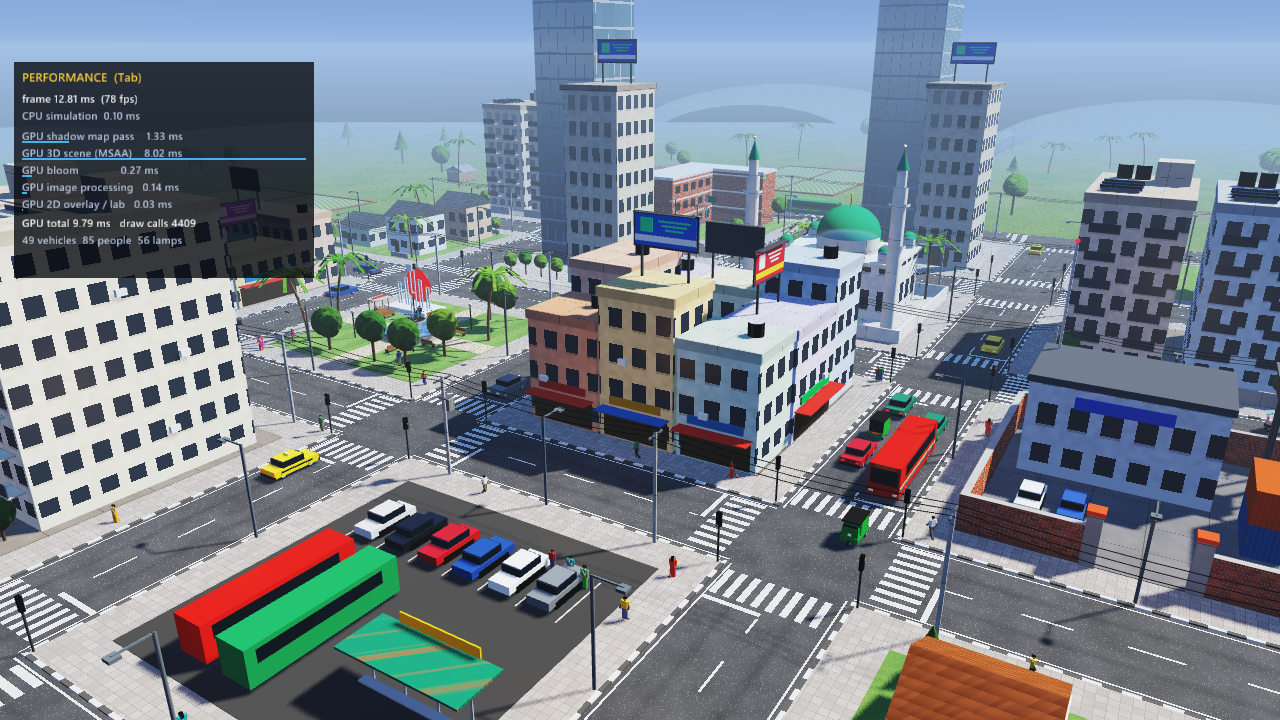
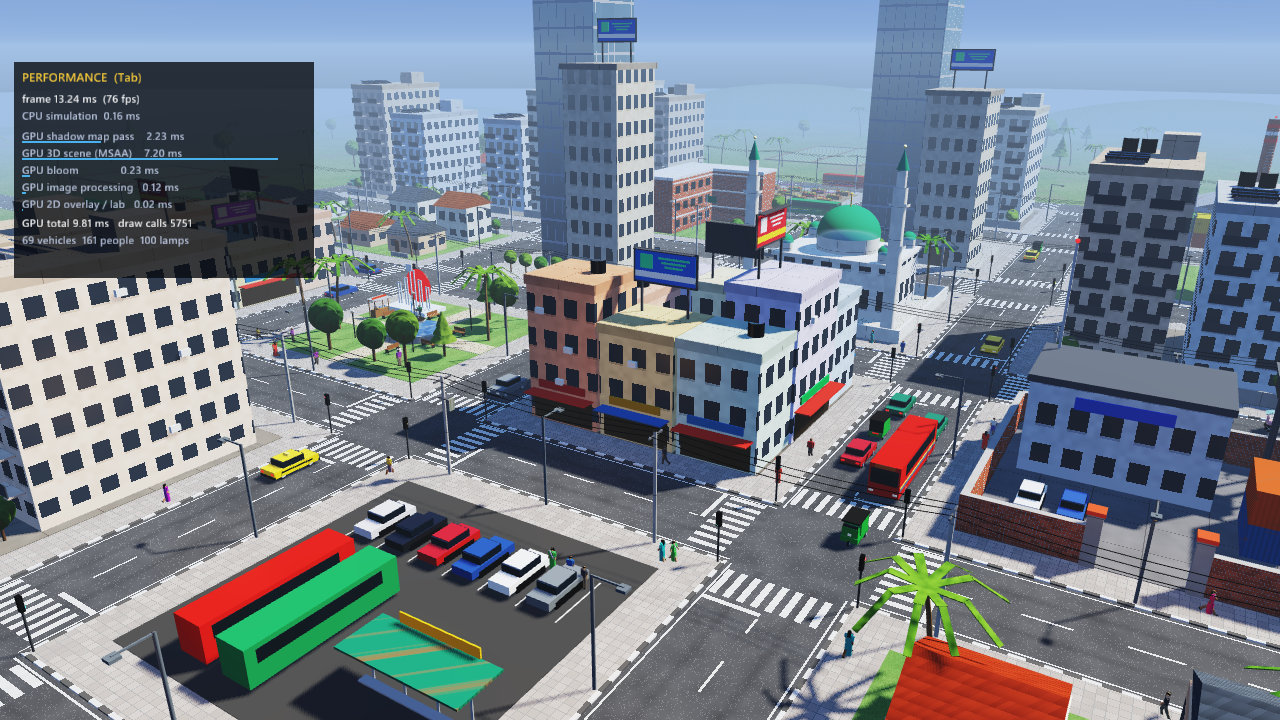
Docs and screenshots for version 5 (bigger town, build.bat fixes)

diff --git a/README.md b/README.md
@@ -58,9 +58,9 @@ the live CCTV feed.
 
 | | |
 |---|---|
-| **Procedural town** | 5 × 5 street grid, 16 themed city blocks, coconut palms, electricity poles with sagging cables, glowing rooftop billboards, tea stalls, rice paddies and a village pond. Road markings are painted in the fragment shader; there are no textures or models. |
-| **Traffic simulation** | 49 vehicles of 8 types on lane routes with **cubic Bézier** turns. Heading comes from `P'(t)`; vehicles obey signals, keep their distance, and stop for people. |
-| **Hierarchical people** | About 85 pedestrians with articulated skeletons and walk cycles. They wait at kerbs and cross on green. |
+| **Procedural town** | 7 × 7 street grid with 36 city blocks: towers, mosque, park, markets, open-air bazaars, a cricket ground with floodlights, a hospital with a helipad, factories, a school, a bus terminal and housing. Also coconut palms, electricity poles with sagging cables, glowing rooftop billboards, tea stalls, rice paddies and a village pond. Road markings are painted in the fragment shader; there are no textures or models. |
+| **Traffic simulation** | 69 vehicles of 8 types on lane routes with **cubic Bézier** turns. Heading comes from `P'(t)`; vehicles obey signals, keep their distance, and stop for people. |
+| **Hierarchical people** | About 160 pedestrians, including shoppers in the bazaars, with articulated skeletons and walk cycles. They wait at kerbs and cross on green. |
 | **Rendering** | HDR + ACES, camera-following shadow map with texel snapping, 4× MSAA, **bloom from an emissive glow mask**, **Fresnel sky reflections** on glass, water and paint, procedural sky, day/night cycle, Flat / Gouraud / Phong shading. The static town is batched by material into a few hundred draw calls. |
 | **CCTV restoration** | Bilateral, median, or kernel denoising, plus **motion-adaptive temporal noise reduction** and **real histogram equalization** driven by a GPU → CPU histogram every frame. |
 | **Motion detection** | Background subtraction, thresholding, morphological opening, and connected-component labelling give bounding boxes around moving objects. The intermediate images are shown live. |
@@ -82,6 +82,8 @@ the difference $|I-B|$, and the cleaned mask.
 | ![Street](docs/screenshots/street_level.png) | ![Bloom](docs/screenshots/night_bloom.png) |
 | **Village pond, palms and boats** | **Town park and junctions** |
 | ![Pond](docs/screenshots/village_pond.png) | ![Park](docs/screenshots/town_park.png) |
+| **Cricket ground under floodlights** | **Open-air bazaar** |
+| ![Cricket](docs/screenshots/cricket_night.png) | ![Bazaar](docs/screenshots/bazaar.png) |
 | **Town at night** | **Night CCTV: degraded (left) vs. restored (right)** |
 | ![Night](docs/screenshots/town_night.png) | ![Split](docs/screenshots/dip_split_screen.png) |
 
@@ -219,13 +221,15 @@ Alternatively, download a ready-to-run build from the latest
 ```bash
 git clone --recursive https://github.com/k-i-mahi/Image-Graphics-Project.git
 cd Image-Graphics-Project
-build.bat                         # configure + compile into build-mingw\
+build.bat                         # configure + compile into build-mingw\   (PowerShell: .\build.bat)
 ctest --test-dir build-mingw      # unit tests
-run.bat                           # launch
+run.bat                           # build if needed, then launch      (PowerShell: .\run.bat)
 ```
 
-If you cloned without `--recursive`, run `git submodule update --init` first. Run the executable from
-`build-mingw\` so it finds `shaders\`.
+`build.bat` works from any folder and can be double-clicked. It fetches the GLFW submodule if it is
+missing and names any missing tool. In **PowerShell**, scripts in the current folder must be started with
+`.\` (for example `.\build.bat`), because PowerShell does not run commands from the current folder by
+name. The executable finds its `shaders\` folder next to itself, so it can be started from anywhere.
 
 ### Headless screenshot mode
 
@@ -268,7 +272,7 @@ NightWatch.exe --shot lab.bmp --camera cctv --lab --labkeys "OII^^"
 ```text
 ├── src/
 │   ├── main.cpp            render loop, cameras, input, screenshot mode
-│   ├── Town.cpp            street grid, 16 city blocks, lamps, outskirts
+│   ├── Town.cpp            street grid, 36 city blocks, lamps, outskirts
 │   ├── TownActors.cpp      signals, vehicles, people, CCTV, fountain (hierarchical models)
 │   ├── Traffic.cpp         routes, Bézier turns, signal cycle, vehicle/pedestrian behaviour
 │   ├── ImageOps.cpp        image-processing algorithms (no OpenGL, unit-tested)

diff --git a/docs/TECHNICAL.md b/docs/TECHNICAL.md
@@ -44,7 +44,7 @@ No external image/model assets — every object, texture pattern and person is g
 | File | Role |
 |---|---|
 | `src/main.cpp` | Window, render loop, cameras (free / CCTV / chase), input, screenshots, command-line shot mode |
-| `include/Town.h`, `src/Town.cpp` | Street grid constants, `Painter` draw helper, the 16 city blocks, lamps, outskirts |
+| `include/Town.h`, `src/Town.cpp` | Street grid constants, `Painter` draw helper, the 36 city blocks, lamps, outskirts |
 | `src/TownActors.cpp` | Animated parts: traffic signals, 8 vehicle models, hierarchical people, CCTV, fountain, Bézier guide |
 | `include/Traffic.h`, `src/Traffic.cpp` | Lane routes (straights + Bézier turns), signal cycle, vehicle and pedestrian behaviour |
 | `include/Bezier.h` | Cubic Bézier segment `P(t)`, `P'(t)` |
@@ -77,12 +77,15 @@ No external image/model assets — every object, texture pattern and person is g
 ## 4. Computer Graphics features
 
 ### 4.1 The town
-- **Street grid:** 5 × 5 roads, 40 m blocks, two lanes, **left-hand traffic** (Bangladesh). The two main roads
+- **Street grid:** 7 × 7 roads (6 × 6 = 36 blocks), 40 m blocks, two lanes, **left-hand traffic** (Bangladesh). The two main roads
   continue out of town as highways.
 - **Road markings from world position** (fragment shader, no textures): dashed centre line, edge lines,
   **zebra crossings** at every junction, **stop lines** only on the approaching lane, tyre-worn lanes,
   painted black/white kerbs, footpath tiles.
-- **16 blocks with a purpose:** downtown glass towers, mosque (dome, minarets, ablution pool), park with fountain
+- **Outer districts (v5):** two open-air bazaars (tarp-covered stalls, produce, string lights, shoppers), a cricket
+  ground (pitch, stumps, stands, scoreboard, four floodlight towers that light the area at night), a hospital (helipad,
+  glowing red cross, ambulance), two factories (saw-tooth roofs, banded chimney with beacon, water tower), more housing.
+- **Inner 16 blocks with a purpose:** downtown glass towers, mosque (dome, minarets, ablution pool), park with fountain
   and a Shaheed Minar memorial, two market blocks (shop fronts, awnings, neon signs, roof water tanks),
   apartments (balconies, water tanks), houses with tiled gable roofs, school (brick, playground, national flag),
   NightWatch HQ (walled compound, watch tower, radio mast, containers), bus terminal, fuel station.
@@ -103,7 +106,7 @@ No external image/model assets — every object, texture pattern and person is g
 - **Behaviour:** stop at red, stop at yellow if `d > v² / 2a`, keep a gap to the vehicle ahead
   (`v ≤ v_lead + k (gap − gap_min)`), stop for pedestrians on the road; brake lights glow when decelerating.
 - **Traffic signals** at every junction: X green 11 s → yellow 2.5 s → all-red 1 s → Z green 11 s → yellow 2 s → all-red 1 s.
-- **Pedestrians (≈ 90):** hierarchical skeleton pelvis → torso → head, shoulder → elbow, hip → knee;
+- **Pedestrians (≈ 160):** hierarchical skeleton pelvis → torso → head, shoulder → elbow, hip → knee;
   walk cycle `swing = 0.45 sin(φ)`, knee bend `max(0, sin(φ + 1.6))`; saree/salwar, lungi or shirt-trousers;
   they wait at the kerb and cross on the zebra during the parallel green.
 
@@ -194,7 +197,7 @@ plain background subtraction worth discussing.
 ## 6. Build & run
 
 ```cmd
-build.bat      :: configure + compile into build-mingw\
+build.bat      :: configure + compile into build-mingw\ (works from any folder; PowerShell: .\build.bat)
 run.bat        :: build (if needed) and launch
 ```
 

diff --git a/docs/CHANGELOG.md b/docs/CHANGELOG.md
@@ -4,6 +4,18 @@ Tracks what has been built, fixed and added. Newest entries at the top.
 
 ---
 
+## 2026-10-05 (part 4) — Version 5: build fixes, bigger town
+
+- [x] **Fixed: `build.bat` "not recognized"** when typed in PowerShell: PowerShell does not run scripts from the
+  current folder by name, so the docs now say `.\build.bat`. `build.bat` itself now changes to its own folder (works
+  when started from anywhere or double-clicked), checks for g++ / cmake / ninja with a clear message, fetches the
+  GLFW submodule if missing, retries a stale CMake cache with `--fresh`, and pauses on failure. `run.bat` uses full paths.
+- [x] **Fixed:** the exe had to be started from `build-mingw\`; it now finds `shaders\` next to itself.
+- [x] **Town 2.25× larger:** 7 × 7 roads, 36 blocks. New districts: two bazaars, cricket ground with floodlights,
+  hospital with helipad, two factories. 4 new vehicle routes (69 vehicles), about 160 people.
+- [x] Ground plane extended so the land reaches the horizon fog; far plane 700 m.
+- [x] Shadow pass skips people beyond 60 m: draw calls 6,407 → 3,159, still 60 FPS.
+
 ## 2026-10-05 (part 3) — Version 4: visuals and content
 
 - [x] **UI**: TrueType fonts (Segoe UI, Consolas) via `stb_truetype` font atlas with mipmaps; UTF-8 text (Σ × ÷ → σ ∞);

diff --git a/docs/ROADMAP.md b/docs/ROADMAP.md
@@ -112,6 +112,15 @@ One screen, three columns:
 | 5 | Outskirts were a flat green plane | Rice paddies with dikes, village pond with boats |
 | 6 | 6,700 draw calls left no room for detail | Static batching per material |
 
+## 2d. Design review of version 4
+
+| # | Problem | Fix (version 5) |
+|---|---|---|
+| 1 | `build.bat` failed when typed in PowerShell, and only worked from the project folder | Docs use `.\build.bat`; the script finds its own folder, checks tools, fetches the submodule |
+| 2 | The exe crashed (no shaders) when started from any other folder | Looks for `shaders\` next to the exe |
+| 3 | The town felt small: 16 blocks, edge visible from most views | 36 blocks with bazaars, cricket ground, hospital, factories; ground extends to the fog |
+| 4 | Shadow pass drew every person in town | Distance cull for shadow casters (draw calls halved) |
+
 ## 3. Order of work
 
 1. [x] **Town world + traffic + people** (Part A) — done 2026-10-05
